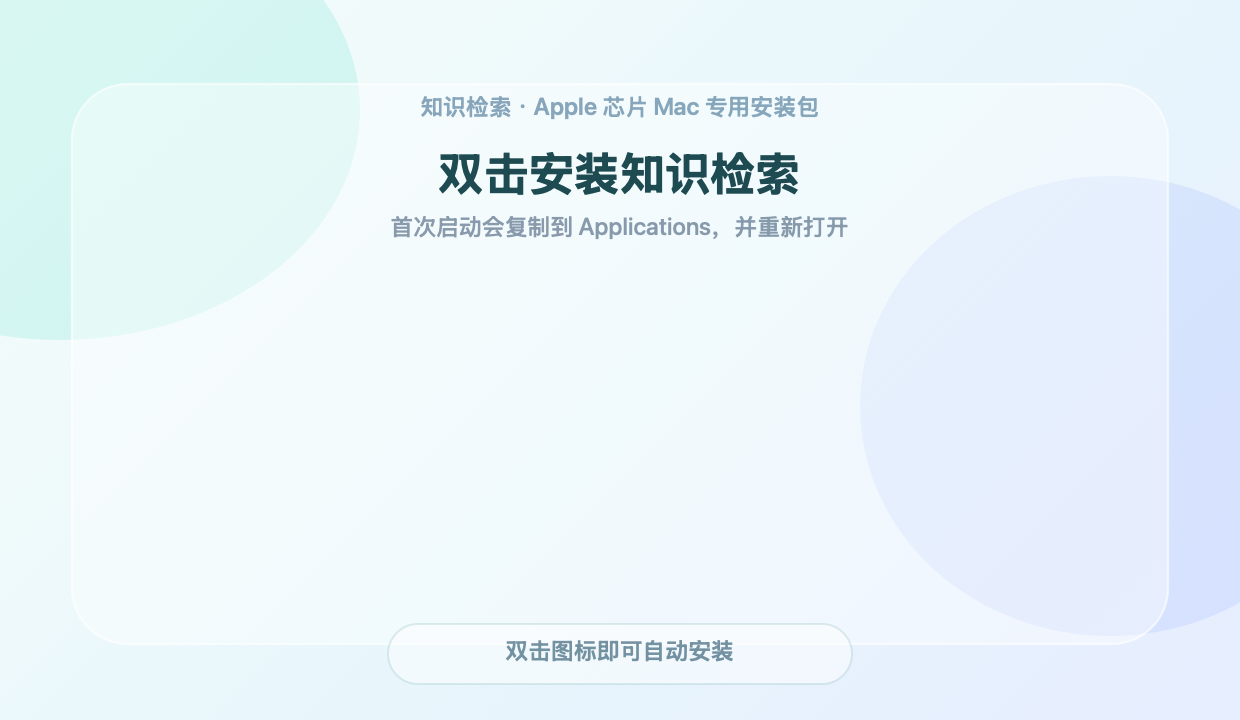
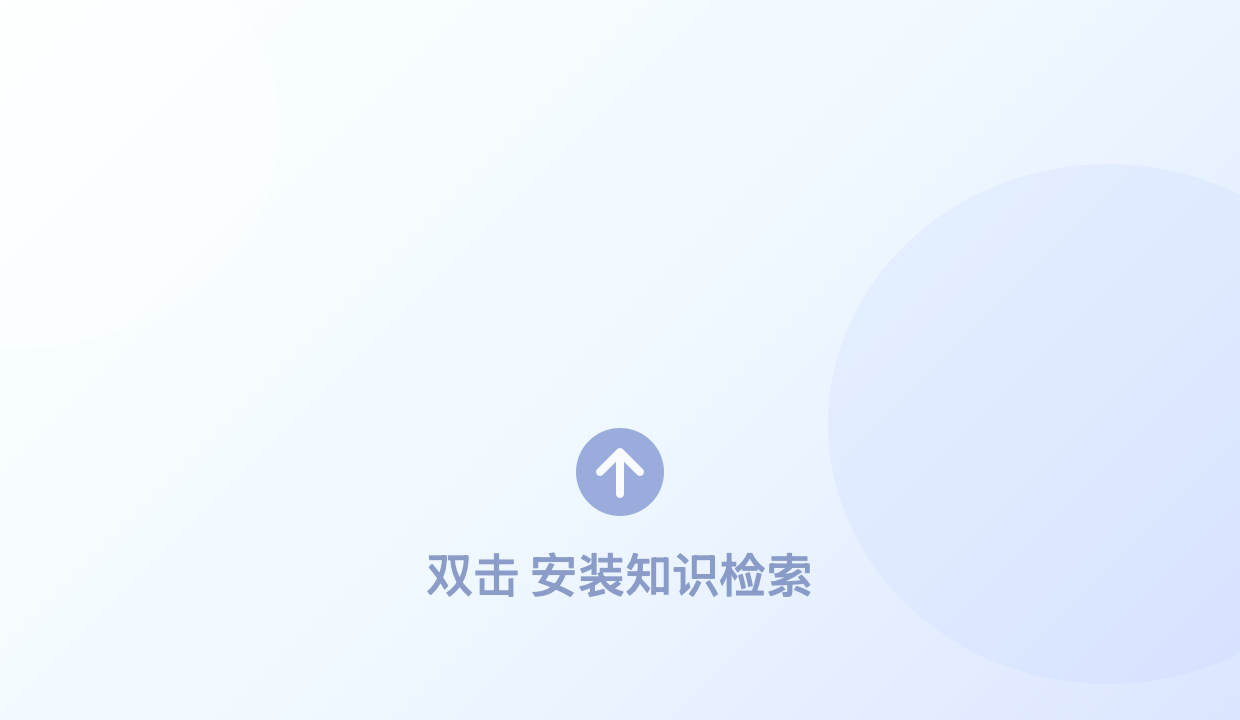
style: simplify dmg installer background

diff --git a/desktop/scripts/generate-dmg-background.swift b/desktop/scripts/generate-dmg-background.swift
@@ -39,69 +39,45 @@ func renderBackground(width: CGFloat, height: CGFloat, scale: CGFloat, outputURL
 
   let backgroundRect = NSRect(origin: .zero, size: pixelSize)
   let gradient = NSGradient(colors: [
-    NSColor(calibratedRed: 0.96, green: 0.99, blue: 0.98, alpha: 1),
-    NSColor(calibratedRed: 0.89, green: 0.96, blue: 0.98, alpha: 1),
-    NSColor(calibratedRed: 0.88, green: 0.91, blue: 1.0, alpha: 1),
+    NSColor(calibratedRed: 0.99, green: 1.0, blue: 1.0, alpha: 1),
+    NSColor(calibratedRed: 0.93, green: 0.97, blue: 1.0, alpha: 1),
+    NSColor(calibratedRed: 0.83, green: 0.87, blue: 1.0, alpha: 1),
   ])!
   gradient.draw(in: backgroundRect, angle: 315)
 
-  let glowLeft = NSBezierPath(ovalIn: rect(-120, 190, 300, 230))
-  NSColor(calibratedRed: 0.22, green: 0.82, blue: 0.72, alpha: 0.17).setFill()
+  let glowLeft = NSBezierPath(ovalIn: rect(-120, 186, 260, 220))
+  NSColor.white.withAlphaComponent(0.36).setFill()
   glowLeft.fill()
 
-  let glowRight = NSBezierPath(ovalIn: rect(430, 42, 250, 230))
-  NSColor(calibratedRed: 0.42, green: 0.53, blue: 1.0, alpha: 0.16).setFill()
+  let glowRight = NSBezierPath(ovalIn: rect(414, 18, 280, 260))
+  NSColor(calibratedRed: 0.68, green: 0.75, blue: 1.0, alpha: 0.18).setFill()
   glowRight.fill()
-
-  let panel = NSBezierPath(roundedRect: rect(36, 38, 548, 280), xRadius: scaled(28), yRadius: scaled(28))
-  NSColor.white.withAlphaComponent(0.40).setFill()
-  panel.fill()
-  NSColor.white.withAlphaComponent(0.62).setStroke()
-  panel.lineWidth = scaled(1.1)
-  panel.stroke()
 
   let paragraph = NSMutableParagraphStyle()
   paragraph.alignment = .center
 
-  ("知识检索 · Apple 芯片 Mac 专用安装包" as NSString).draw(
-    in: rect(70, 292, 480, 22),
-    withAttributes: [
-      .font: NSFont.systemFont(ofSize: scaled(12), weight: .semibold),
-      .foregroundColor: NSColor(calibratedRed: 0.28, green: 0.43, blue: 0.56, alpha: 0.70),
-      .paragraphStyle: paragraph,
-    ]
-  )
+  let arrowCircle = NSBezierPath(ovalIn: rect(288, 102, 44, 44))
+  NSColor(calibratedRed: 0.42, green: 0.50, blue: 0.78, alpha: 0.76).setFill()
+  arrowCircle.fill()
 
-  ("双击安装知识检索" as NSString).draw(
-    in: rect(70, 258, 480, 30),
-    withAttributes: [
-      .font: NSFont.systemFont(ofSize: scaled(24), weight: .bold),
-      .foregroundColor: NSColor(calibratedRed: 0.05, green: 0.18, blue: 0.20, alpha: 0.92),
-      .paragraphStyle: paragraph,
-    ]
-  )
+  let arrow = NSBezierPath()
+  arrow.move(to: point(310, 113))
+  arrow.line(to: point(310, 134))
+  arrow.move(to: point(310, 134))
+  arrow.line(to: point(300, 124))
+  arrow.move(to: point(310, 134))
+  arrow.line(to: point(320, 124))
+  arrow.lineWidth = scaled(4)
+  arrow.lineCapStyle = .round
+  arrow.lineJoinStyle = .round
+  NSColor.white.withAlphaComponent(0.94).setStroke()
+  arrow.stroke()
 
-  ("首次启动会复制到 Applications，并重新打开" as NSString).draw(
-    in: rect(70, 234, 480, 20),
+  ("双击 安装知识检索" as NSString).draw(
+    in: rect(70, 50, 480, 38),
     withAttributes: [
-      .font: NSFont.systemFont(ofSize: scaled(12), weight: .medium),
-      .foregroundColor: NSColor(calibratedRed: 0.30, green: 0.38, blue: 0.48, alpha: 0.72),
-      .paragraphStyle: paragraph,
-    ]
-  )
-
-  let hintPill = NSBezierPath(roundedRect: rect(194, 18, 232, 30), xRadius: scaled(15), yRadius: scaled(15))
-  NSColor.white.withAlphaComponent(0.48).setFill()
-  hintPill.fill()
-  NSColor(calibratedRed: 0.29, green: 0.54, blue: 0.55, alpha: 0.18).setStroke()
-  hintPill.lineWidth = scaled(1)
-  hintPill.stroke()
-
-  ("双击图标即可自动安装" as NSString).draw(
-    in: rect(194, 24, 232, 18),
-    withAttributes: [
-      .font: NSFont.systemFont(ofSize: scaled(12), weight: .semibold),
-      .foregroundColor: NSColor(calibratedRed: 0.20, green: 0.34, blue: 0.42, alpha: 0.72),
+      .font: NSFont.systemFont(ofSize: scaled(25), weight: .medium),
+      .foregroundColor: NSColor(calibratedRed: 0.36, green: 0.43, blue: 0.66, alpha: 0.78),
       .paragraphStyle: paragraph,
     ]
   )